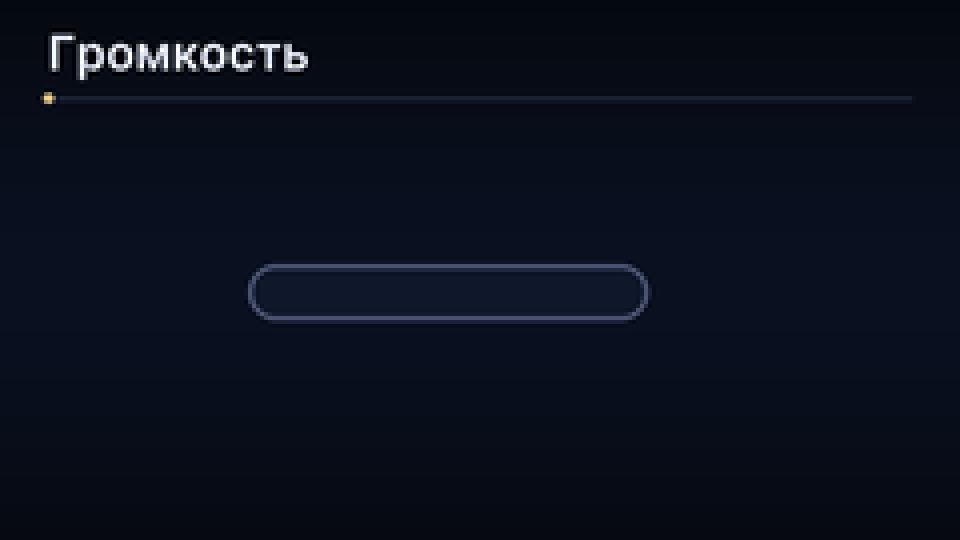
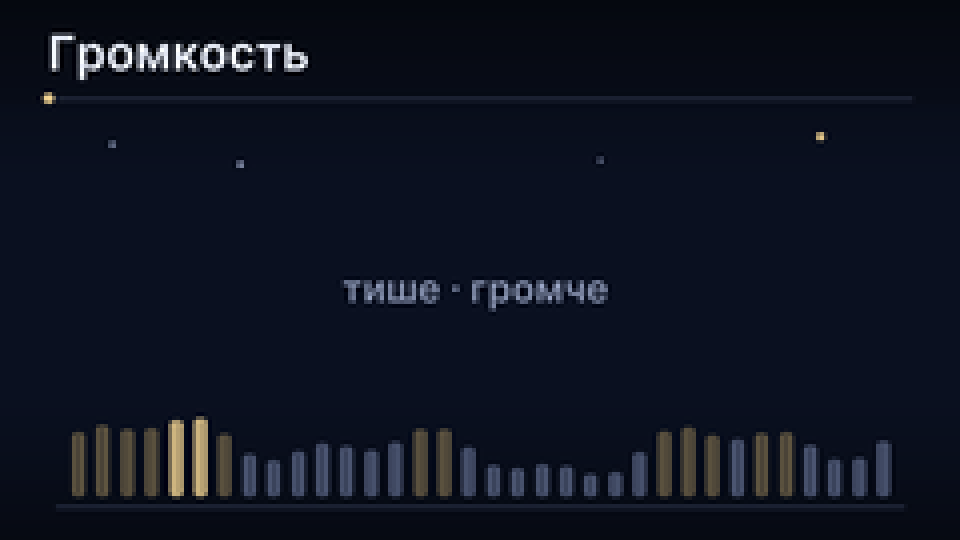
Выпуск 1.0.5

Changed region(s): [[0.0625, 0.7704, 0.9375, 0.9481], [0.25, 0.4741, 0.6875, 0.5926], [0.8438, 0.237, 0.875, 0.2667]]

diff --git a/tools/build_pack.py b/tools/build_pack.py
@@ -375,10 +375,46 @@ def connect_menu():
 
 
 def volume_menu():
-    """Громкость (F108 «Volume Page (English)» 0x2FE9CE). Значки ± прошивка S98 кладёт сверху в (20,62) и (170,57)
-    (наши 0x325c24 и 0x3245f0), шкалу 62…162 у F108 — вероятно, тоже она: здесь только пустая дорожка."""
+    """Громкость (F108 «Volume Page (English)» 0x2FE9CE, подтверждено фото). Значки «−» и «+» прошивка кладёт сама
+    при повороте колеса (кадры — см. VOL_FRAMES в main), поэтому на странице их нет: иначе рядом встают двойники."""
     t = menu_bg("Громкость")
-    t.rect([62, 66, 162, 80], outline=LINE_STRONG, fill=INK2, r=7)
+    # полоса 46…96 — сплошной INK1: туда прошивка кладёт кадры «−» (x≈41, y 62) и «+» (x≈162, y 57), ±строка и ±5 px
+    for y in range(26, 135):
+        k = 0 if 46 <= y <= 96 else min((46 - y if y < 46 else y - 96) / 40, 1) ** 1.3 * 0.85
+        c = tuple(round(a + (b - a) * k) for a, b in zip(rgb(INK1), rgb(INK0)))
+        t.d.rectangle(t.S([0, y, 240, y + 1]), fill=c)
+    t.text((119, 72), "тише · громче", 9.5, SILVER_DIM, path=INTER)
+    # эквалайзер внизу: неподвижный, но «звучащий»; пики — золотом
+    base, n = 124, 34
+    for i in range(n):
+        x = 18 + i * 6.1
+        v = (math.sin(i * 0.55) * 0.5 + math.sin(i * 1.31 + 1.2) * 0.3 + math.sin(i * 0.23 + 0.4) * 0.35 + 1.15) / 2.3
+        h = 3 + v * 19
+        top = base - h
+        col = GOLD if v > 0.8 else GOLD_DIM if v > 0.62 else LINE_STRONG
+        t.rect([x, top, x + 3, base], fill=col, r=1.2)
+    t.line([(14, base + 2.5), (226, base + 2.5)], LINE, 1)
+    for x, y, r, c in [(28, 36, .8, SILVER_FAINT), (205, 34, 1, GOLD), (150, 40, .6, SILVER_FAINT), (60, 41, .7, SILVER_DIM)]:
+        t.dot(x, y, r, c)
+    return t.done()
+
+
+def vol_frame(w, h, plus, waves):
+    """Кадр анимации громкости на сплошном INK1 с полями ≥ 6 px: ошибка адреса на строку-другую или несколько
+    пикселей только сдвинет значок, а не разорвёт его."""
+    t = Tile(w, h, INK1)
+    cy = h / 2
+    sx = 14 if plus else 11
+    c = SILVER_BRIGHT
+    t.d.polygon(t.S([sx - 5, cy - 3, sx - 2, cy - 3, sx + 2, cy - 6.5, sx + 2, cy + 6.5, sx - 2, cy + 3, sx - 5, cy + 3]),
+                outline=rgb(c), width=max(1, round(1.2 * SS)))
+    for k in range(waves):
+        r = 4 + k * 3.2
+        t.arc([sx + 2 - r, cy - r, sx + 2 + r, cy + r], -50, 50, GOLD if k == waves - 1 else SILVER_DIM, 1.2)
+    x = w - (11 if plus else 8)
+    t.line([(x - 3.5, cy), (x + 3.5, cy)], GOLD, 1.6)
+    if plus:
+        t.line([(x, cy - 3.5), (x, cy + 3.5)], GOLD, 1.6)
     return t.done()
 
 
@@ -552,11 +588,15 @@ def main():
     # подписи регулировки подсветки 99×28 в (0,0): T1/T2 — корейский набор AULA, T3/T4 — английский
     for a, s in [(0x23b790, "Яркость"), (0x23cd38, "Скорость"), (0x23e2e0, "Яркость"), (0x23f888, "Скорость")]:
         tiles[a] = caption(s, crop(0, 0, 99, 28))
-    # громкость: V 49×29 в (170,57) — «+», v 35×19 в (20,62) — «−», по два кадра
-    tiles[0x3245f0] = speaker(49, 29, True, 0, crop(170, 57, 49, 29))
-    tiles[0x32510a] = speaker(49, 29, True, 1, crop(170, 57, 49, 29))
-    tiles[0x325c24] = speaker(35, 19, False, 0, crop(20, 62, 35, 19))
-    tiles[0x326156] = speaker(35, 19, False, 1, crop(20, 62, 35, 19))
+    # громкость: кадры анимации колеса. Lunacy читает иначе, чем S98 (диагностика 2026-10-19, recon/spi/vol_diag.py,
+    # видео владельца): «+» — кадры 49×29 подряд, найдены 0x324B48 и 0x325662 (±строка), «−» — 35×19/20 с 0x326156
+    # (адрес S98) и следующий. Вся область — сплошной фон, кадры «+» с 0x32402E (на кадр раньше) и с полями.
+    VOL_FILL = (0x323000, 0x326C00)
+    tiles[VOL_FILL[0]] = Image.new("RGB", (1, (VOL_FILL[1] - VOL_FILL[0]) // 2), rgb(INK1))
+    for k, a in enumerate((0x32402E, 0x324B48, 0x325662)):
+        tiles[a] = vol_frame(49, 28, True, k + 1)    # 28 строк: кадр 0x325662 не заходит на «−» с 0x326156
+    tiles[0x326156] = vol_frame(35, 19, False, 2)
+    tiles[0x326688] = vol_frame(35, 20, False, 1)   # 35×20 с полями: годится и для шага 1330, и для 1400 (0x3266CE)
     # поиск: 3 кадра BT, 3 кадра 2.4G (F108: «BT Linking Animation», «WiFi Linking Animation»)
     for i, a in enumerate([0x17ee68, 0x189368, 0x193868]):
         tiles[a] = linking("bt", i)

diff --git a/studio/version.py b/studio/version.py
@@ -1,3 +1,3 @@
 """Версия Lunacy Studio и откуда брать обновления. Версию поднимает выпуск: тег vX.Y.Z = VERSION."""
-VERSION = "1.0.4"
+VERSION = "1.0.5"
 REPO = "ninezeroshine/lunacy-studio"          # github.com/<REPO>: релизы, установщик, SHA256SUMS.txt

diff --git a/CHANGELOG.md b/CHANGELOG.md
@@ -2,6 +2,12 @@
 
 Формат: новые версии сверху, раздел `## [X.Y.Z] — дата`. Текст раздела показывается в окне обновления.
 
+## [1.0.5] — 2026-10-19
+
+- Экспериментальная графика экрана: значки «тише» и «громче» при повороте колеса громкости теперь целые и анимируются волнами — раньше по бокам мигали обломки. Кадры разложены во флеш так, как их читает прошивка клавиатуры (выяснено диагностическим набором).
+- Новый фон страницы громкости: эквалайзер с золотыми пиками, без двойных значков.
+- Залейте набор графики ещё раз («Экран» → «Графика экрана»).
+
 ## [1.0.4] — 2026-10-19
 
 - Экспериментальная графика экрана: нарисованы экраны встроенного меню клавиатуры — «Настройки» (Fn + Ctrl + →, выбор Fn + Enter), эффекты, цвет подсветки, связь, громкость, язык, а также шкалы яркости (Fn + ↑ / ↓) и скорости (Fn + ← / →). Раньше там были тёмные экраны со служебными числами. Залейте набор графики ещё раз («Экран» → «Графика экрана»).
